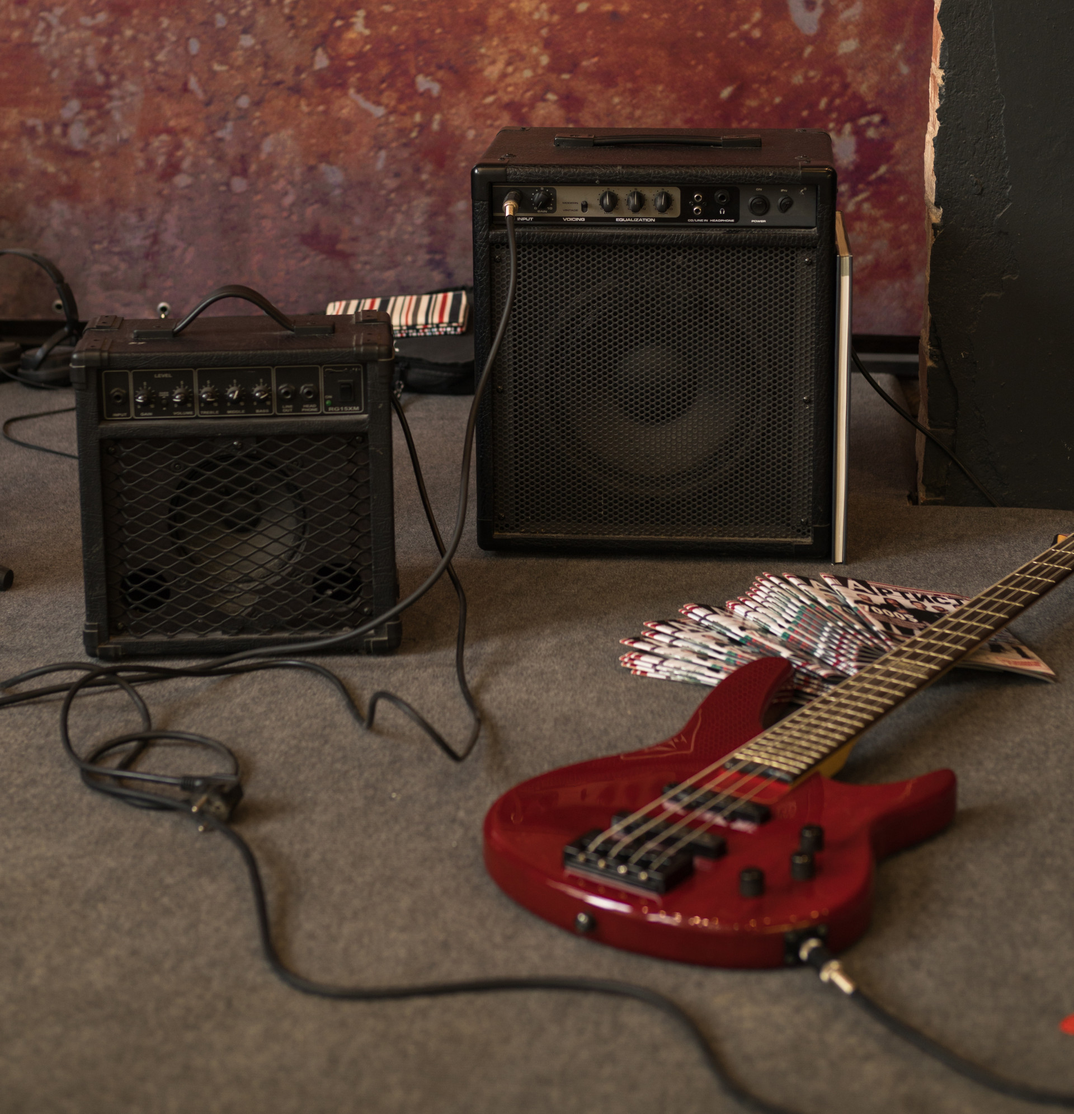
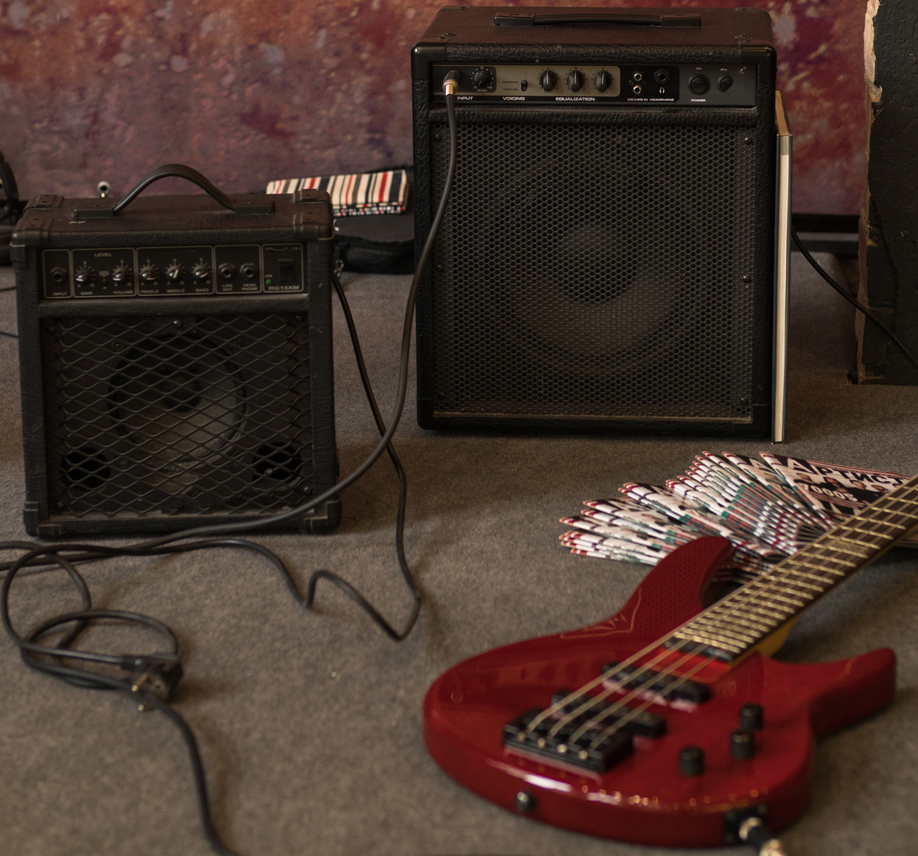
1.7
in Images:
cutting image.
in HTML:
ADD aside with ifram tag;
ADD some settings in lyric;
in CSS:
ADD aside and ifram css settings;
ADD parallax effect on background-image to  section.image.

diff --git a/index.html b/index.html
@@ -14,15 +14,18 @@
     </header>
     <main>
         <article>
+            <aside>
+                <iframe width="448" height="252" src="https://youtu.be/sb4gYcIG4BU" title="YouTube video player" frameborder="0" allow="accelerometer; autoplay; clipboard-write; gyroscope; picture-in-picture" allowfullscreen></iframe>
+            </aside>
             <section class="normal">
                 <p>
                     Skate vibration! <br>
                     Feel good! <br>
-                    Sempre na paz viemos de santos do nosso jeito, <br>
+                    Sempre na paz, viemos de santos do nosso jeito, <br>
                     Pronto pra viver a experiência visual e auditiva  <br>
                     que começa agora na minha vida,  <br>
                     onde a comunicação se faz através de uma canção <br>
-                    Quem é charlie brown vamo que vamo junto então. <br>
+                    Quem é Charlie Brown vamo que vamo junto então. <br>
                     O tempo prova o valor de cada um <br>
                     Pelas coisas que vivemos e que temos em comum <br>
                     No passo forte encarando a brisa <br>
@@ -30,12 +33,12 @@
                 </p>
             </section>
 
-            <section class="image">
+            <section class="image" id="img01">
                 <p>
                     Quanto vale a paz? <br>
                     Quanto vale o sossego?<br>
                     Valor inestimável minha paz não tem preço<br>
-                    Bem diferente do que muita gente pens,<br>
+                    Bem diferente do que muita gente pensa,<br>
                     Realista, cabeça feita. Então ...<br>
                     Quanto vale a paz? <br>
                     Quanto vale o sossego?<br>
@@ -47,8 +50,8 @@
 
             <section class="normal">
                 <p>
-                    Dedicado a molecada da familia charlie brown <br>
-                    O que importa é o lugar aonde eu me sinta especial <br>
+                    Dedicado a molecada da familia Charlie Brown <br>
+                    O que importa é um lugar onde eu me sinta especial <br>
                     Eu caminhei por mil lugares eu vi milhares de pessoas  <br>
                     Mais de mil aprendizados coisas ruins e coisas boas <br>
                     E não importa se é puta, doutor ou maconheiro <br>
@@ -58,13 +61,13 @@
                 </p>
             </section>
 
-            <section class="image">
+            <section class="image" id="img02">
                 <p>
                     Por que a vida vale muito, a vida vale tudo <br>
                     A vida é tudo nessa vida, paz pra todo mundo <br>
                     A vida vale muito, a vida vale tudo <br>
                     A vida é tudo nessa vida, paz pra todo mundo. <br>
-                    O dono da verdade realmente eu nao conheço <br>
+                    O dono da verdade realmente eu não conheço <br>
                     Mas coletividade quem tem e tem respeito!
                 </p>
             </section>

diff --git a/style/style.css b/style/style.css
@@ -26,8 +26,7 @@
     color: white;
     font-size: 1em;
     margin: 0px;
-    padding: 0px;
-    
+    padding: 0px;   
 }
 
 html, body {
@@ -75,11 +74,26 @@ main {
     font-weight: 600;
 }
 
+aside {
+    background-color: black
+}
+
+aside > iframe{
+    display: block;
+    margin: auto;
+    max-width: 96.2vw;
+}
+
 section {
+    height: 50vh;
     line-height: 1.5em;
     padding-bottom: 10vh;
     padding-left: 10px;
     padding-top: 10vh;
+}
+
+section > p {
+    padding-bottom: 10px;
 }
 
 section.normal {
@@ -87,12 +101,26 @@ section.normal {
 }
 
 section.image {
+    background-attachment: fixed;
     background-color: var(--color-3);
+    background-position: center center;
+    box-shadow: inset 0px 0px 17px -5px black;
 }
 
 section.image > p {
     background-color: rgba(0, 0, 0, 0.418);
+    text-shadow: 1px 1px 2px black;
     display: inline-block;
+    padding: 0px 5px 0px 5px;
+
+}
+
+section#img01 {
+    background-image: url("../images/pexels-vishnu-r-nair-medium.jpg");
+}
+
+section#img02 {
+    background-image: url("../images/pexels-arthouse-studio-medium.jpg");
 }
 
 footer {
